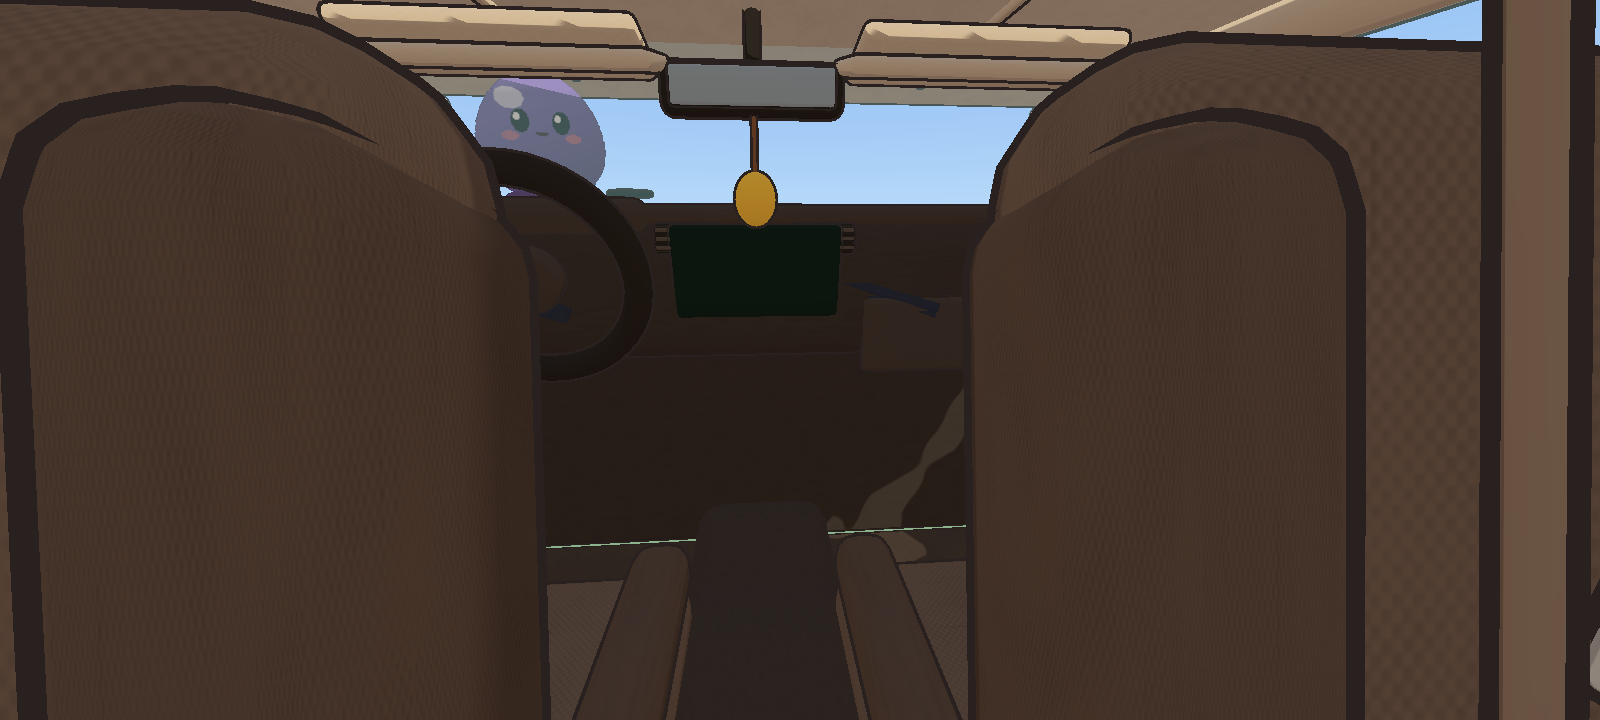
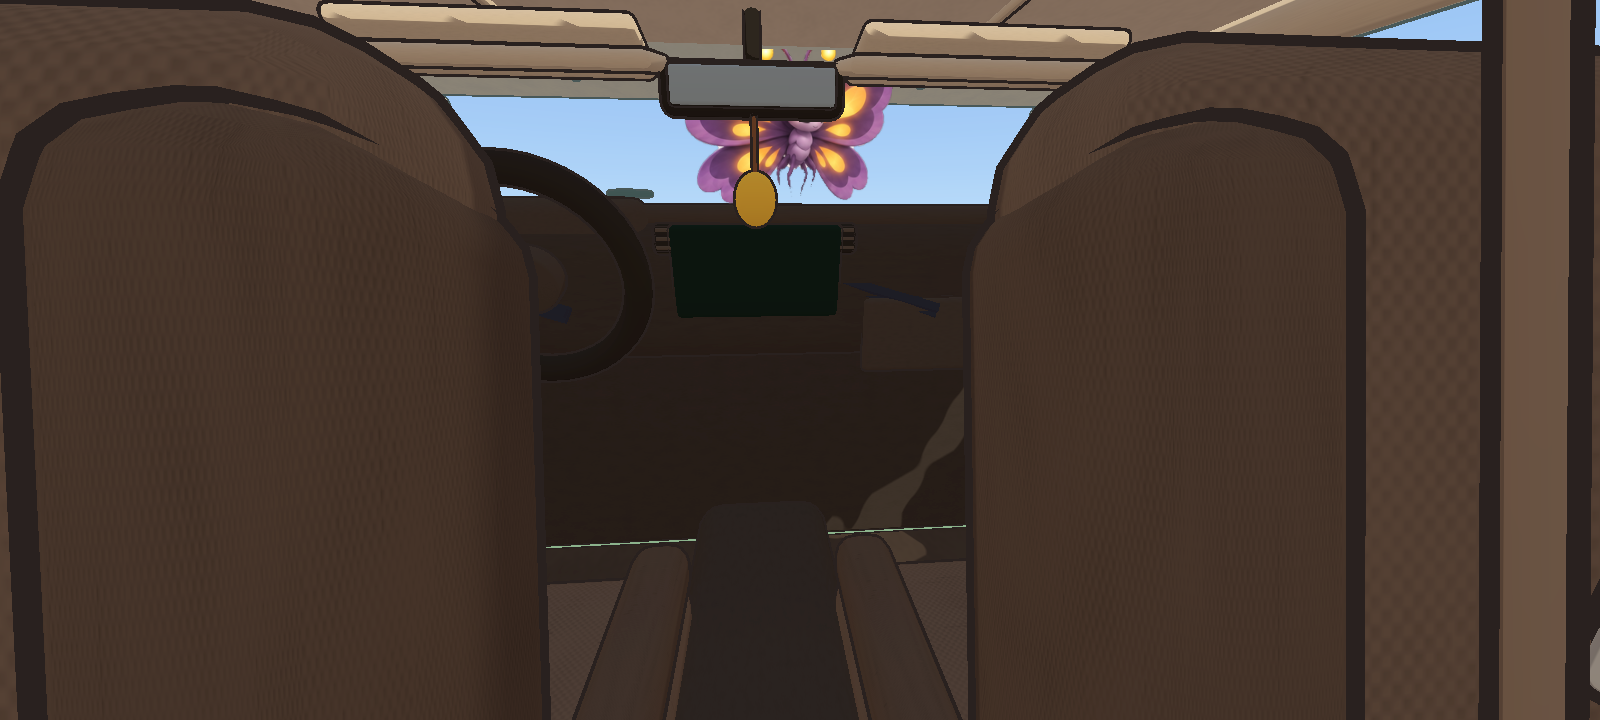
docs: 탐험 화면 기획서 초안(#83 결정 대기), 캐릭터·주행 중 연결 1차 검증 기록, 캡처 갱신

diff --git a/docs/verification.md b/docs/verification.md
@@ -463,3 +463,41 @@ Unity 6000.0.85f2, 휴대폰 에뮬레이터(Medium Phone API 37, arm64, 4코어
 2. **Props.fbx 메시가 읽기 불가**라 기기에서 조각 메시 합치기가 실패(`Cannot combine mesh that does not allow access`)해 나무·바위 등이 안 보였다 → 장면 빌드가 `isReadable` 을 켠다
 3. 후처리 셰이더 `#pragma` 를 한 줄에 몰아 써 기기에서 검은 화면 → 줄 나눔 + 지원 안 되는 셰이더면 후처리 건너뜀
 4. 성능: 에뮬레이터(4코어/4GB) 3.5~4.8fps. 전 빌드도 2~22fps 라 에뮬레이터로는 판단 불가 (#77 실기기)
+
+## 탐험 화면 — 캐릭터 그림·3D 모델 준비·걷는 면 (2026-11-11, A)
+
+Unity 6000.0.85f2, 휴대폰 에뮬레이터(Medium Phone API 37), debug, `FEED=fake SCENARIO=scene_tour EXPLORE_UNITY=true`.
+
+| 항목 | 결과 |
+| --- | --- |
+| D 캐릭터 그림 6종 × 포즈 4개 (`phone/assets/species/{id}.png`, `{id}_move/happy/sleep.png`). 원본은 #86 `docs/mockups/assets/`, 피그마 "Species sheets — character-production-01" A~F 와 같은 그림 | ✅ 에뮬레이터: 바다안개가 D 그림으로 나옴. 나머지 6종(G~L)은 `species.json` 과 이름이 달라(#53 D12) 임시 얼굴 |
+| 행동별 포즈: 걷기·점프 move, 자기·웅크리기 sleep, 탭·먹이 뒤 happy, 그 밖 idle. 그림이 왼쪽을 보므로 오른쪽으로 갈 때 뒤집음. 창밖 친구는 차가 오는 쪽을 보고, 발견되면 happy | ✅ `unity_*.png` |
+| `Allo/Sprite` 셰이더: premultiplied alpha + 밉맵(반투명 가장자리 계단·검은 테두리 없음), 장면 빛을 조금 따름 | ✅ |
+| D 그림 아래 함께 그려진 연한 회색 바닥판을 Unity 가 읽을 때만 지움 (`SpriteLoader.RemoveFloor`, 원본 파일은 그대로) | ✅ 3D 창턱 위에서 떠 있는 판처럼 보이던 문제 해결 |
+| 3D 모델 경로: `scripts/import_characters.sh` → `CharacterImport.Run` → `Resources/Characters/C_{id}.prefab`. 모델이 있으면 차 안·창밖 모두 3D, 없으면 2D 그림 | ✅ 임시 모델(Quaternius 양·퍼그)로 에디터·에뮬레이터 확인 후 지움. 실제 모델은 이미지→3D 서비스로 생성 예정 |
+| 걷는 면 가림 검사: 장면 빌드 때 면 위 9곳에 아이 눈·카메라 레일 앞끝에서 광선을 쏴 절반 넘게 가려지면 뺌 (유리·가는 물체 제외) | ✅ 뒷유리 아래 선반(`Walk_RearShelf`)만 빠짐. 아이 눈 0.89m < 등받이 위 1.03m 라 어디서도 안 보였음 |
+| 앞·뒷좌석 사이 바닥 (`Walk_Floor`, cabin.py). 방석 바로 앞 0.4m 는 아이 방석에 가려져 앞좌석 쪽만 | ✅ `unity_floor.png`. 뒷좌석·창턱과 점프로 오감 |
+| 오른쪽 뒷좌석 인형을 구석으로 옮기고 걷는 면을 그 앞쪽만 | ✅ 캐릭터가 인형을 뚫고 지나가지 않음 |
+| 테스트 | ✅ Unity EditMode 53개 (가림·바닥 5개, 3D 모델 3개 추가), `flutter test` 177개 |
+
+기기에서 찾아 고친 것:
+1. 새 에셋을 넣은 뒤 빌드한 APK 에 그림이 빠져 있었다. Flutter 빌드 캐시(`.dart_tool/flutter_build`)가 이전 에셋 목록을 그대로 썼다 → 캐시와 `build/app/intermediates/flutter` 를 지우고 다시 빌드. `assets/species/` 에 파일을 추가하면 같은 일이 생길 수 있다
+
+## 탐험 화면 — 주행 중 연결 1차 (Pleos 에뮬 → Firebase → 폰 → Unity, 2026-11-11, A) — #79
+
+Pleos Connect v2.1.0 에뮬레이터(차량 앱 debug) + 휴대폰 에뮬레이터(Medium Phone API 37, `--dart-define-from-file=config/firebase.local.json --dart-define=EXPLORE_UNITY=true`). 한 Mac 에서 두 에뮬레이터 동시 실행. 페어링은 세션 ID + 6자리 코드 수동 입력.
+
+| 항목 | 결과 |
+| --- | --- |
+| 폰 Firebase 초기화 (Android 앱 `ai.allo.allo_phone` 을 Firebase 프로젝트에 등록) | ✅ 페어링 화면까지 약 30초 (첫 실행) |
+| 페어링: 폰 → `meta.paired` → 차 화면 | ✅ 차 화면이 "뒷자리 폰에서 알을 골라 주세요"로 바뀜 |
+| 폰 → `/game` → 차 화면 | ✅ 부화 상태가 차 화면에 "깨어났어요! sea_mist" 로 표시 |
+| 폰 → Unity 탐험 화면 (D 그림 바다안개) | ✅ |
+| 차 지역 태그 → 폰 → Unity scene | ✅ `scripts/demo_sea_trip.sh` 로 도심 → 고속도로 → 바다, Unity 로그 `scene=city → road → coast` |
+| 차 속도·기어 → Unity 창밖 움직임 | ❌ 이번 실행에서는 확인 못 함. 아래 1 |
+| 급제동 → jolt 한 번, 지연 시간, `turns`·`headingDeg` 수신 | ⏸ 아래 2 때문에 다음에 다시 |
+
+찾은 것:
+1. **차량 앱을 에뮬레이터 부팅 직후 켜면 차 신호를 못 받는다.** Virtual Console 로 D·30km/h 를 주면 클러스터는 D·30 인데 차량 앱 스냅샷은 계속 `gear=P speed=0`, 화면도 주행으로 안 바뀜. 앱을 강제 종료 후 다시 켜자 `gear=D speedKph=30` 정상. 차 서비스가 준비되기 전에 리스너를 붙이고 다시 붙이지 않는 것으로 보인다(추정). 시연 전 차량 앱을 한 번 다시 켜는 절차로 피할 수 있고, 근본 수정은 A 할 일
+2. **두 에뮬레이터 + Unity 를 한 Mac 에서 돌리면 폰 에뮬레이터가 버티지 못한다.** 바다 구간에서 Unity 0.2fps 로 떨어진 뒤 폰 에뮬레이터 시스템 전체가 재시작(`DeadSystemException: The system died`). 앱 문제가 아닌 호스트 부하로 본다(추정). 남은 확인은 폰 실기기 + Pleos 에뮬레이터로 하는 편이 낫다
+3. Pleos 에뮬레이터 시계가 폰보다 약 하루 늦다(차 11-10 20:28, 폰 11-11 13:28). 지금 `dev` 는 차가 폰 시각을 비교하지 않아 문제없지만, PR #88(`/game.ts` 생존 신호, 15초 TTL)이 들어오면 이 조합에서 계속 "연결 안 됨"이 된다
